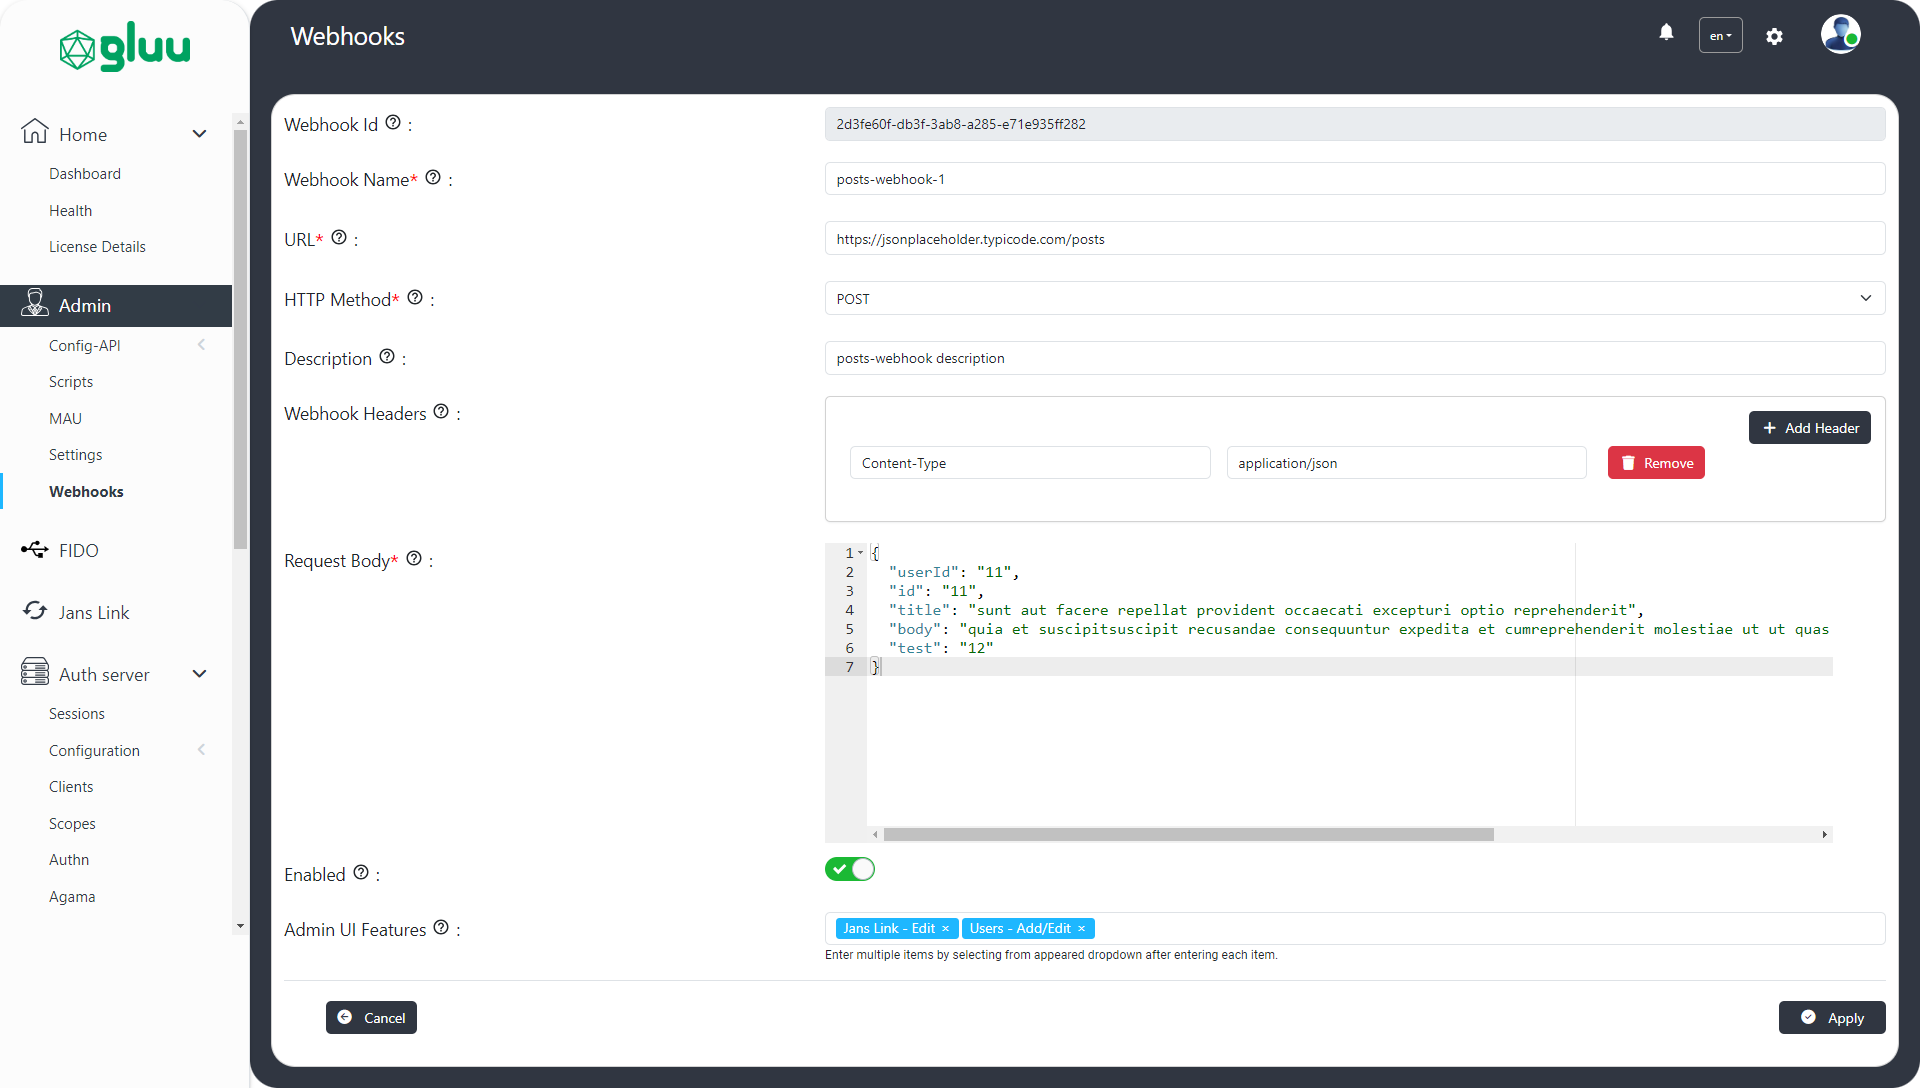
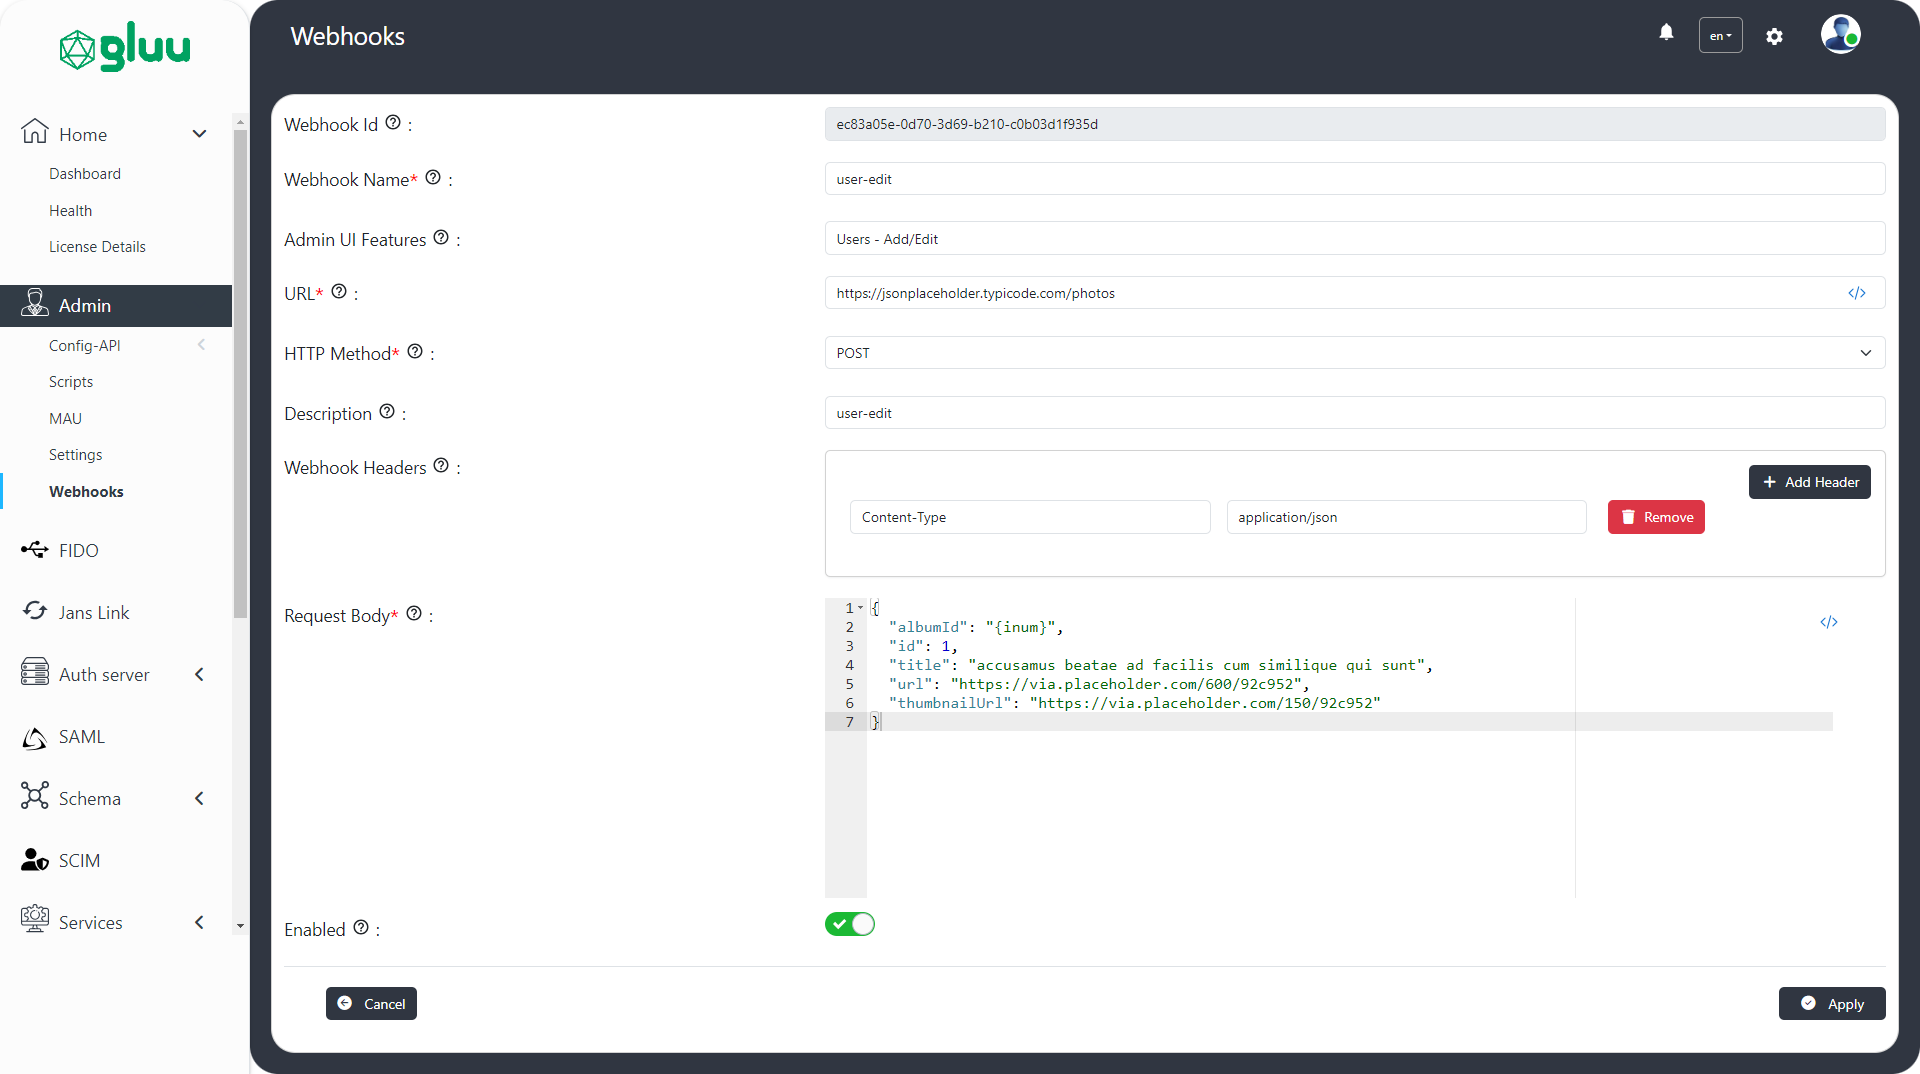
docs: adding docs on shortcode

diff --git a/docs/admin/admin-ui/webhooks.md b/docs/admin/admin-ui/webhooks.md
@@ -33,6 +33,29 @@ Once a webhook is created it can be searched, edited or deleted.
 
 ![image](../../assets/admin-ui/webhook-view.png)
 
+## Shortcodes
+
+When working with webhooks, **shortcodes** play a crucial role in dynamically injecting data into URLs and request bodies. They allow for flexible and customizable communication between different systems. Shortcode is denoted by curly braces `{}`.
+
+- **Using shortcodes in webhook url:** Shortcodes can be used in path parameters or query parameters of webhook url.
+
+```bash
+https://example.com/webhook/{inum}/update
+https://example.com/webhook?action={action}&user_id={userId}
+```
+
+- **Using shortcodes in webhook request-body:** Webhook request bodies can utilize placeholders to dynamically populate data sent to the recipient system.
+
+```bash
+{
+  "username": "{username}",
+  "email": "{email}",
+  "password": "{password}"
+}
+```
+
+![image](../../assets/admin-ui/shortcodes.png)
+
 ## Triggering webhooks
 
 The webhooks can be mapped with one or more Admin UI feature(s) using the [webhook create/update form](./webhooks.md#webhook-management-on-the-ui). The following Admin UI features can be mapped to the webhooks.
